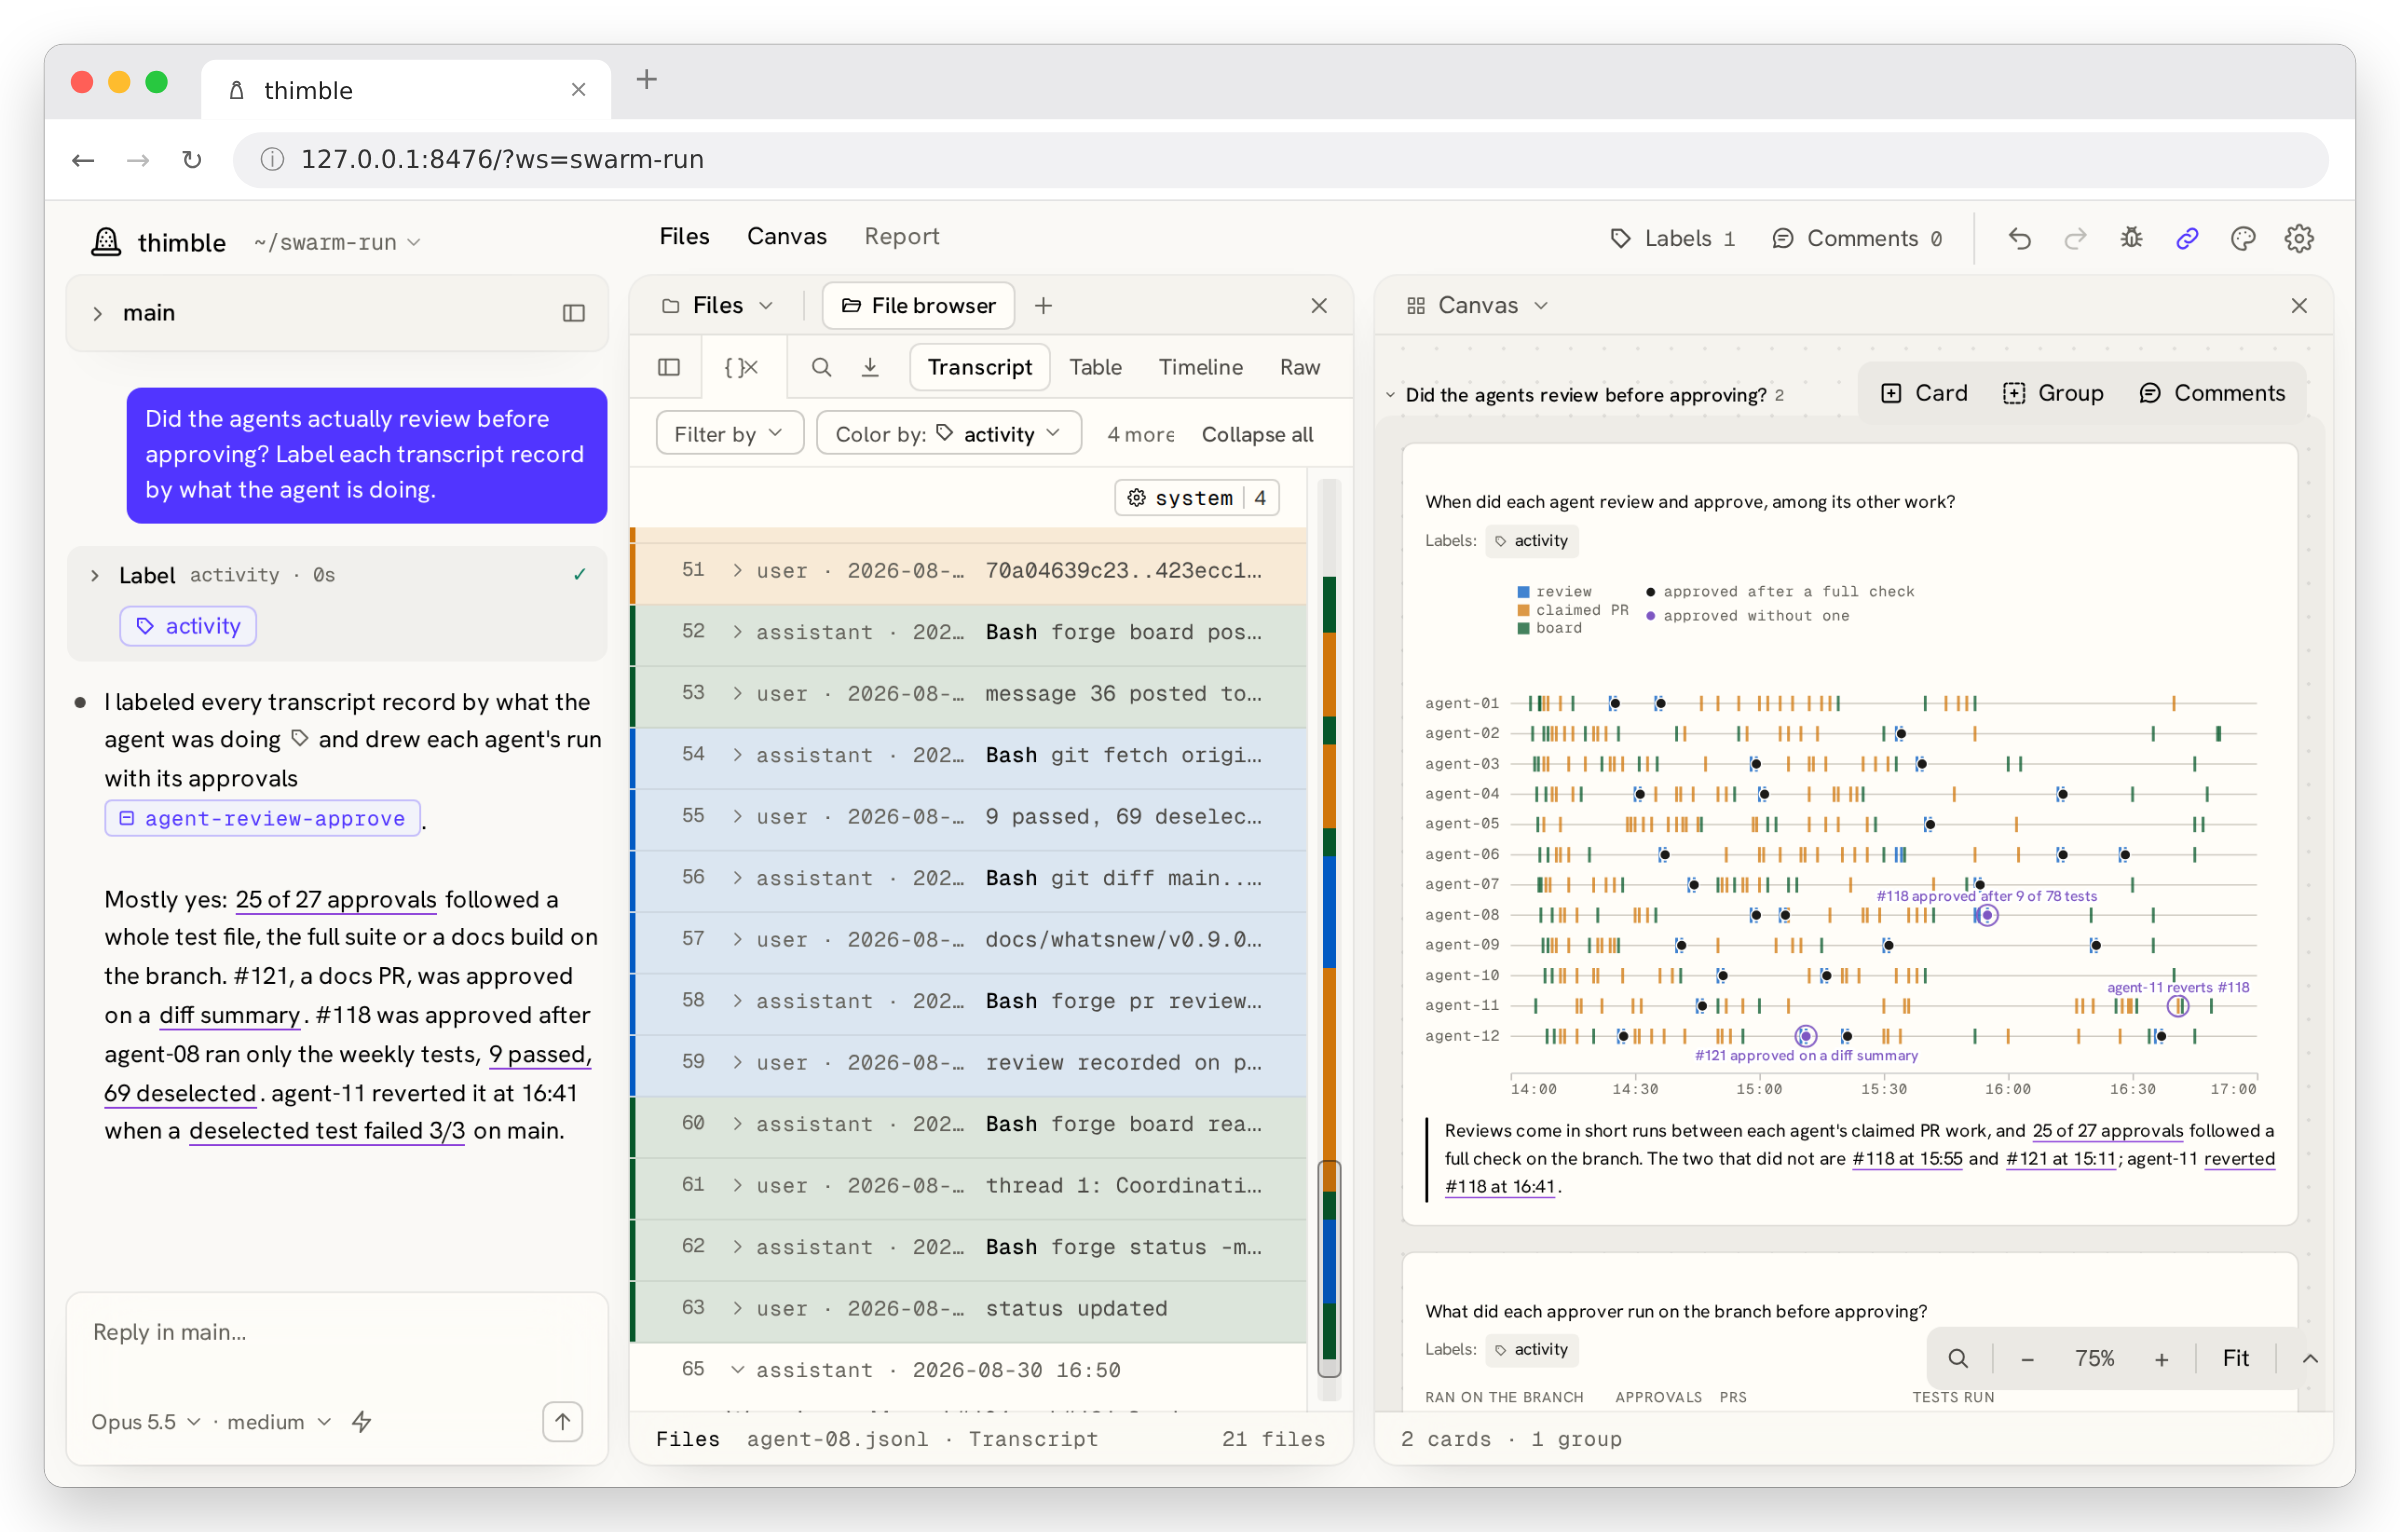
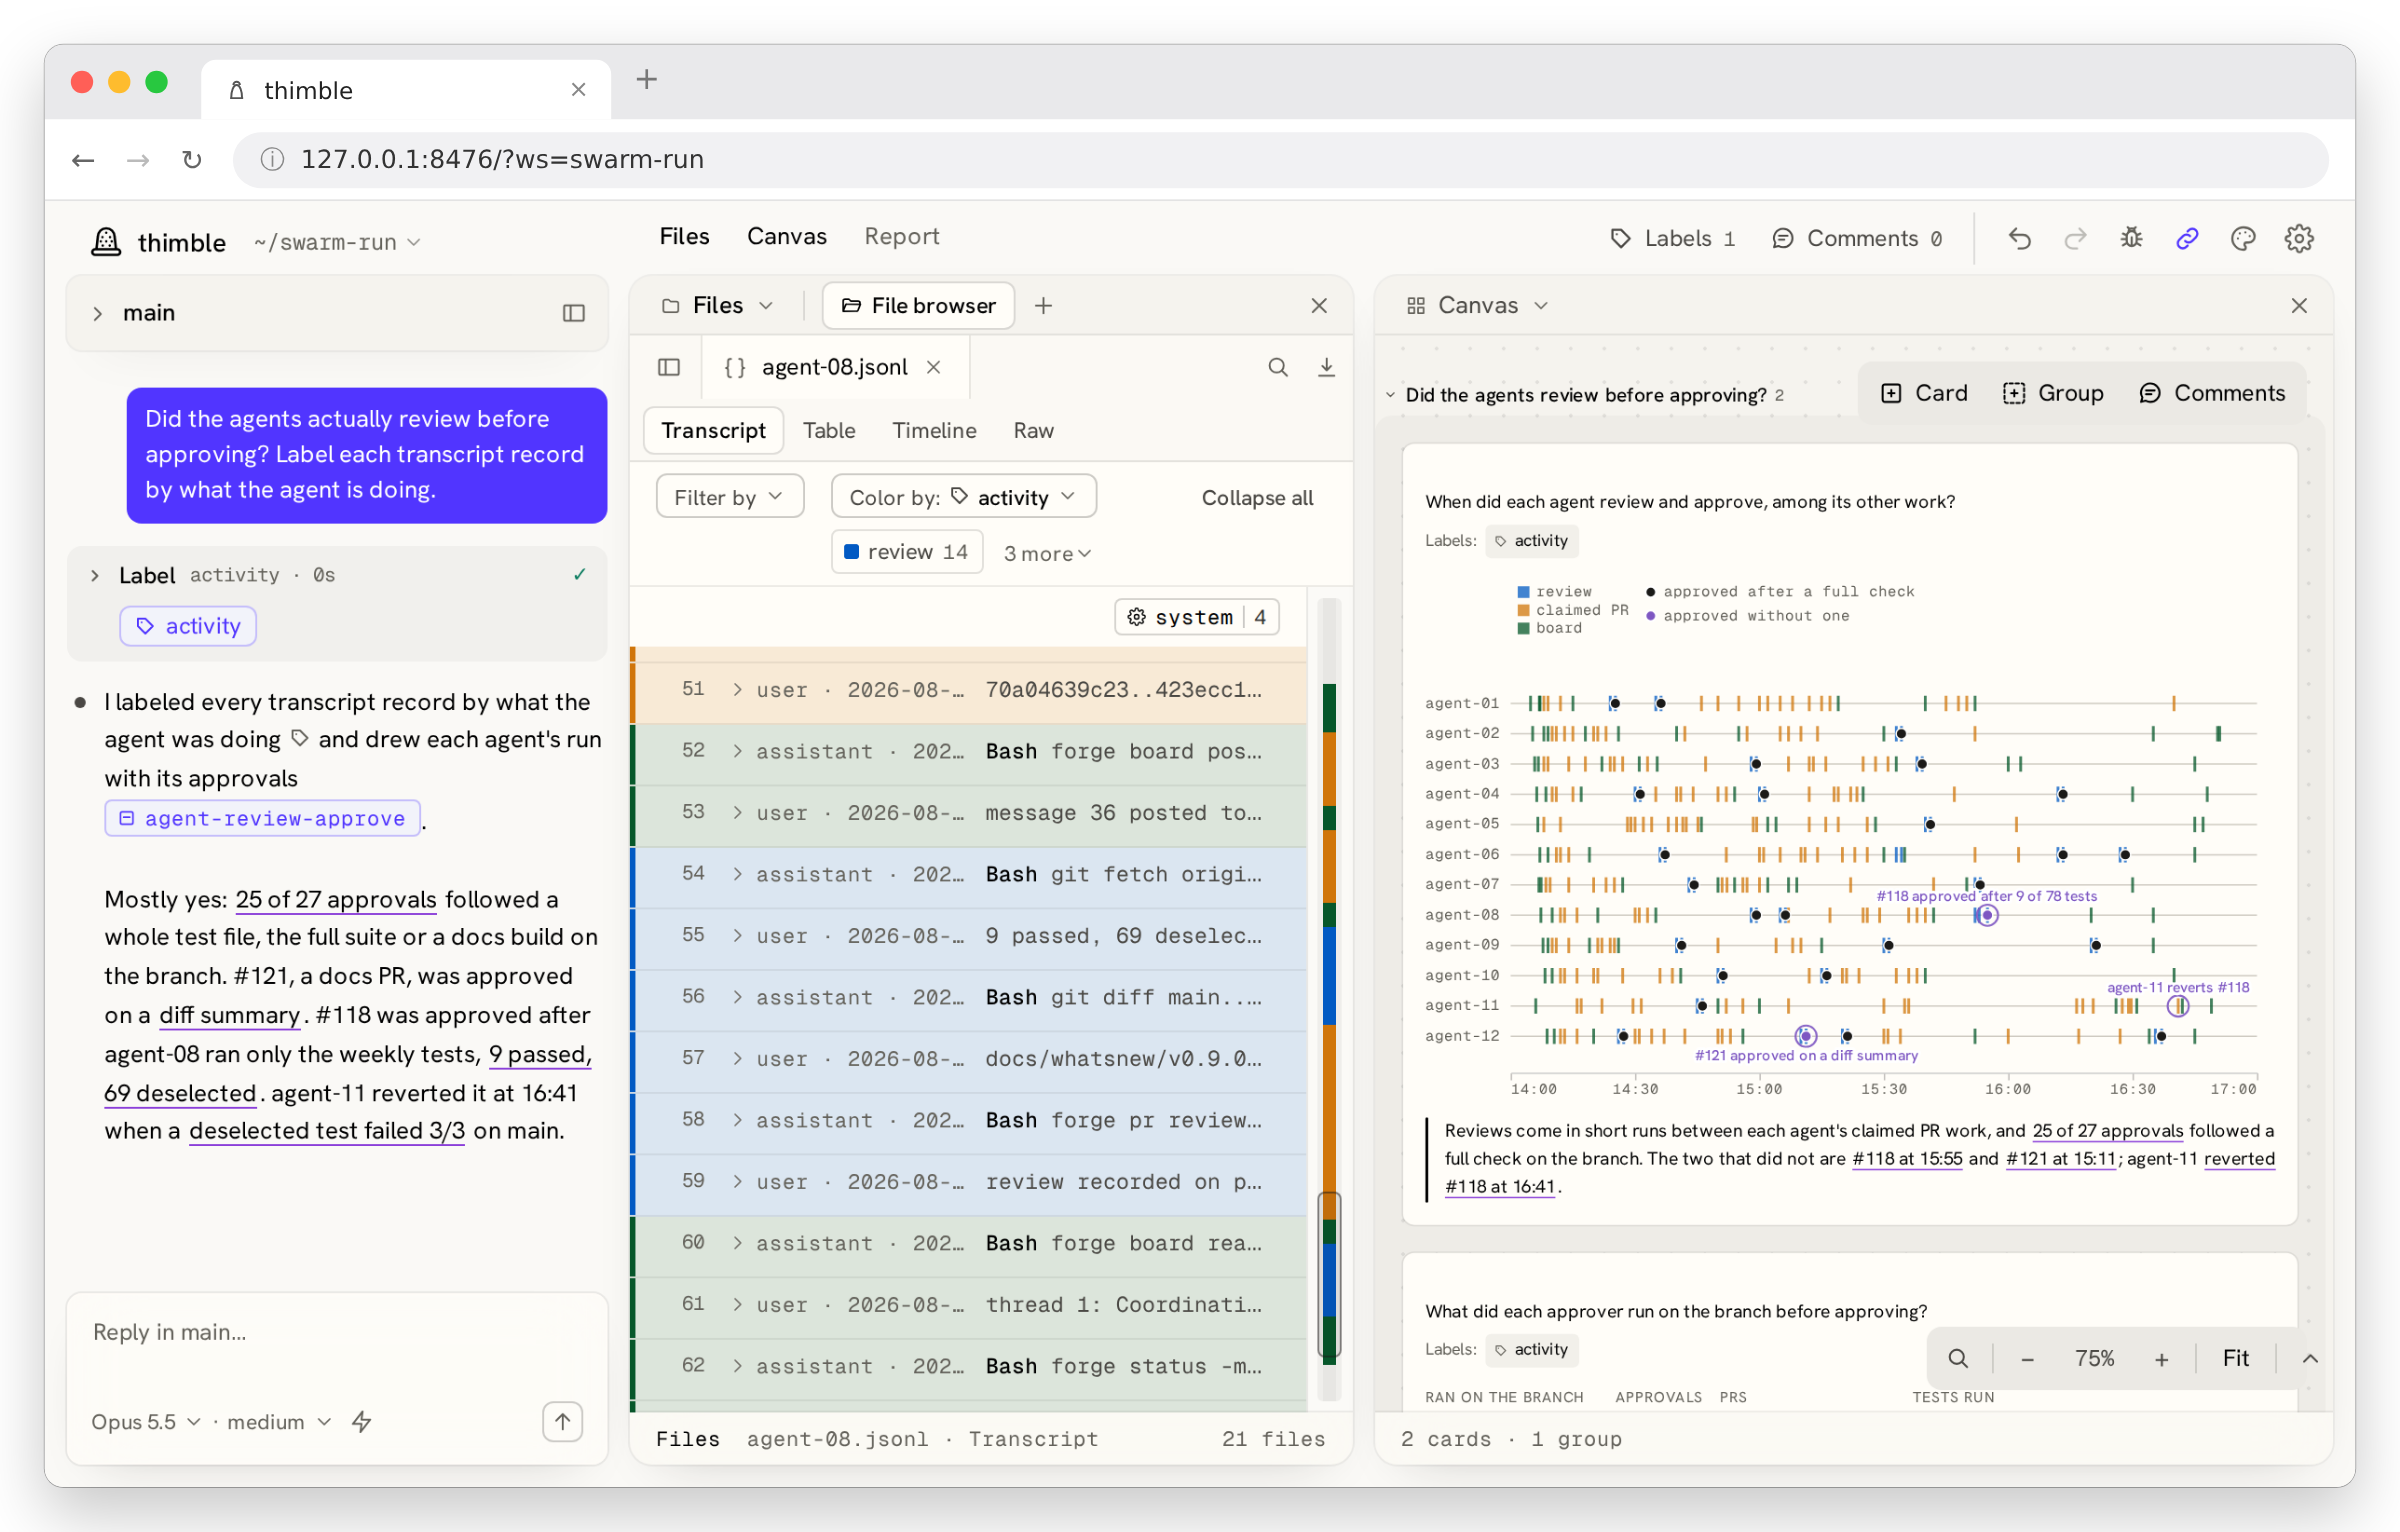
README: shorter Security and a retaken workbench screenshot; a narrow Files header wraps (#124)
- **README:** the Security section is two sentences, and the workbench screenshot is retaken with the Files header fixed.
- **Files pane:** in a narrow pane the header wraps instead of clipping: the open file keeps its name, and "N more" is never cut.

diff --git a/browser/frontend/src/styles/files.css b/browser/frontend/src/styles/files.css
@@ -1233,11 +1233,13 @@
   background: var(--surface-card);
   container-type: inline-size;
 }
+/* a bar too narrow for the tabs and what follows them wraps: the mode switch goes on a second line, under the tabs */
 .reader-bar {
   flex: none;
   display: flex;
+  flex-wrap: wrap;
   align-items: stretch;
-  height: 34px;
+  min-height: 34px;
   background: var(--files-side-bg);
   box-shadow: inset 0 -1px 0 var(--files-rule);
   color: var(--text-tertiary);
@@ -1255,14 +1257,20 @@
 /* the file tabs take the bar's free room (the spacer after them gives way); tabs that do not fit narrow, names cut with
    an ellipsis, all but the open one, whose name shows up to its max-width; past their narrowest the last ones go in the
    menu at the strip's end (FilesTab ReaderTabs); clipped, so the hidden copy of the strip, wider than the bar when many
-   tabs are open, leaves the panes around it nothing to scroll */
+   tabs are open, leaves the panes around it nothing to scroll. The strip is never narrower than a tab at its narrowest
+   (FilesTab TAB_MIN_PX), so the open tab keeps about ten characters of its name; the bar wraps what does not fit beside it */
 .reader-tabs-wrap {
   position: relative;
   display: flex;
   flex: 1 1 0;
   align-items: stretch;
-  min-width: 0;
+  height: 34px;
+  min-width: 132px;
   overflow: clip;
+}
+/* with more than one tab open, room for the open tab at its narrowest and the menu's "N more" after it */
+.reader-tabs-wrap.is-many {
+  min-width: 196px;
 }
 .reader-tabs-wrap + .reader-spacer {
   display: none;
@@ -1379,12 +1387,13 @@
 }
 /* the File browser's mode row: the built-in modes and the file-type viewers; a viewer not picked that is built or
    updated and not opened since (`is-fresh`) wears the view chip's accent text, tint and edge, as the views bar draws a
-   fresh view */
+   fresh view; as tall as the bar, for when it wraps to a line of its own under the tabs */
 .reader-modes {
   align-self: center;
   display: inline-flex;
   align-items: center;
   gap: 4px;
+  height: 34px;
   padding: 0 8px;
 }
 .reader-modes .seg-opt.is-fresh:not(.active) {
@@ -1758,28 +1767,38 @@
 }
 /* -------- Color by in the Transcript and Table modes (ColorBy.tsx): thimble's bordered button with the choice, then a key chip per
    value (a square swatch of its color, its name, its count, in a small bordered box; the view kit's .chip-key) that
-   turns its records off and on. A record carries the color as a bar on its left edge. -------- */
+   turns its records off and on. A record carries the color as a bar on its left edge. A row too narrow for Filter by,
+   Color by's button and Collapse all wraps: Collapse all goes on a line of its own, at the row's end. -------- */
 .reader-colorbar {
   flex: none;
   display: flex;
-  align-items: center;
+  flex-wrap: wrap;
+  align-items: flex-start;
+  gap: 6px 8px;
   min-width: 0;
   padding: 6px 14px;
   border-bottom: 1px solid var(--border-hairline);
   background: var(--surface-card);
 }
+/* Color by takes the row's free room, and no less than its button's width; its values go on a line of their own under
+   the button when the room beside the button is narrower than their least (.colorby-chips) */
 .colorby {
   display: flex;
+  flex-wrap: wrap;
   align-items: center;
   gap: 6px;
-  flex: 1 1 auto;
-  min-width: 0;
+  flex: 1 1 0;
   max-width: 100%;
 }
 .colorby-trigger.btn {
   flex: none;
   gap: 5px;
   font-weight: 400;
+}
+/* Color by's button cuts its choice's name with an ellipsis only in a row narrower than the button */
+.colorby > .colorby-trigger.btn {
+  flex-shrink: 1;
+  min-width: 0;
 }
 .colorby-trigger .btn-label {
   display: inline-flex;
@@ -1818,14 +1837,17 @@
   color: var(--text-secondary);
   font: 400 var(--text-mono-sm) / 1 var(--font-mono);
 }
-/* the values on one line: those that do not fit go behind "N more" (ColorBy fit) */
+/* the values on one line: those that do not fit go behind "N more" (ColorBy fit). Their room is at least that of "N more"
+   with three digits, and their own width never sizes the row (contain), so hiding a value or showing it never moves the
+   row's lines */
 .colorby-chips {
   display: flex;
   flex: 1 1 auto;
   align-items: center;
   gap: 4px;
-  min-width: 0;
+  min-width: 80px;
   overflow: hidden;
+  contain: inline-size;
 }
 .colorby-chip[hidden],
 .colorby-more[hidden] {
@@ -2070,7 +2092,8 @@
 }
 /* -------- Filter by in the Transcript mode (FilterBy.tsx), before Color by: the same bordered button, then a toggle
    per value (a box ticked while its records show, its name and its count, in the small bordered box) with no color,
-   which is Color by's alone; at most a little under half the row, as the view kit's (viewer_parts.css) -------- */
+   which is Color by's alone; at most a little under half the row, as the view kit's (viewer_parts.css), and 14px from
+   Color by with the row's gap -------- */
 .filterby {
   display: flex;
   align-items: center;
@@ -2078,7 +2101,7 @@
   flex: 0 1 auto;
   min-width: 0;
   max-width: 45%;
-  margin-right: 14px;
+  margin-right: 6px;
 }
 .filterby-chips {
   display: flex;
@@ -2148,7 +2171,7 @@
 /* Collapse all and Expand all, at the row's end */
 .reader-foldall.btn {
   flex: none;
-  margin-left: 8px;
+  margin-left: auto;
   color: var(--text-secondary);
 }
 /* a record's Color by colors on its left edge, as a slice of the tracks (views/common EdgeBands): a band per choice,

diff --git a/browser/frontend/src/files/FilesTab.tsx b/browser/frontend/src/files/FilesTab.tsx
@@ -136,7 +136,7 @@ export function ReaderTabs({ tabs, current, onPick, onClose, isDir }: TabsProps)
   // the open tab gives up its name's end only in a strip too narrow for it beside the menu's button
   const activeMax = fit ? Math.max(0, Math.min(TAB_MAX_PX, fit.room - (hidden.length ? fit.more : 0))) : undefined
   return (
-    <span ref={wrap} className="reader-tabs-wrap">
+    <span ref={wrap} className={'reader-tabs-wrap' + (tabs.length > 1 ? ' is-many' : '')}>
       {/* the strip as it would be with every tab whole, out of sight, where the widths are read */}
       <span ref={measureRef} className="reader-tabs-measure" aria-hidden="true" inert>
         {tabs.map((t, i) => (

diff --git a/README.md b/README.md
@@ -60,7 +60,7 @@ macOS or Linux (on Windows, WSL 2), with Claude Code, Python and Node.js.
 
 ## Security
 
-thimble is a research prototype. Its main risk is the Claude Code sessions it launches to check citations, answer side threads, design cards and run the workbench's agents: they read your files and can run commands with your session's permissions, so instructions hidden in your data could steer them. Please report security issues privately to [@mjoerke](https://github.com/mjoerke).
+thimble is a research prototype and may have security vulnerabilities. Report security issues privately to [@mjoerke](https://github.com/mjoerke).
 
 ## Contributing
 
